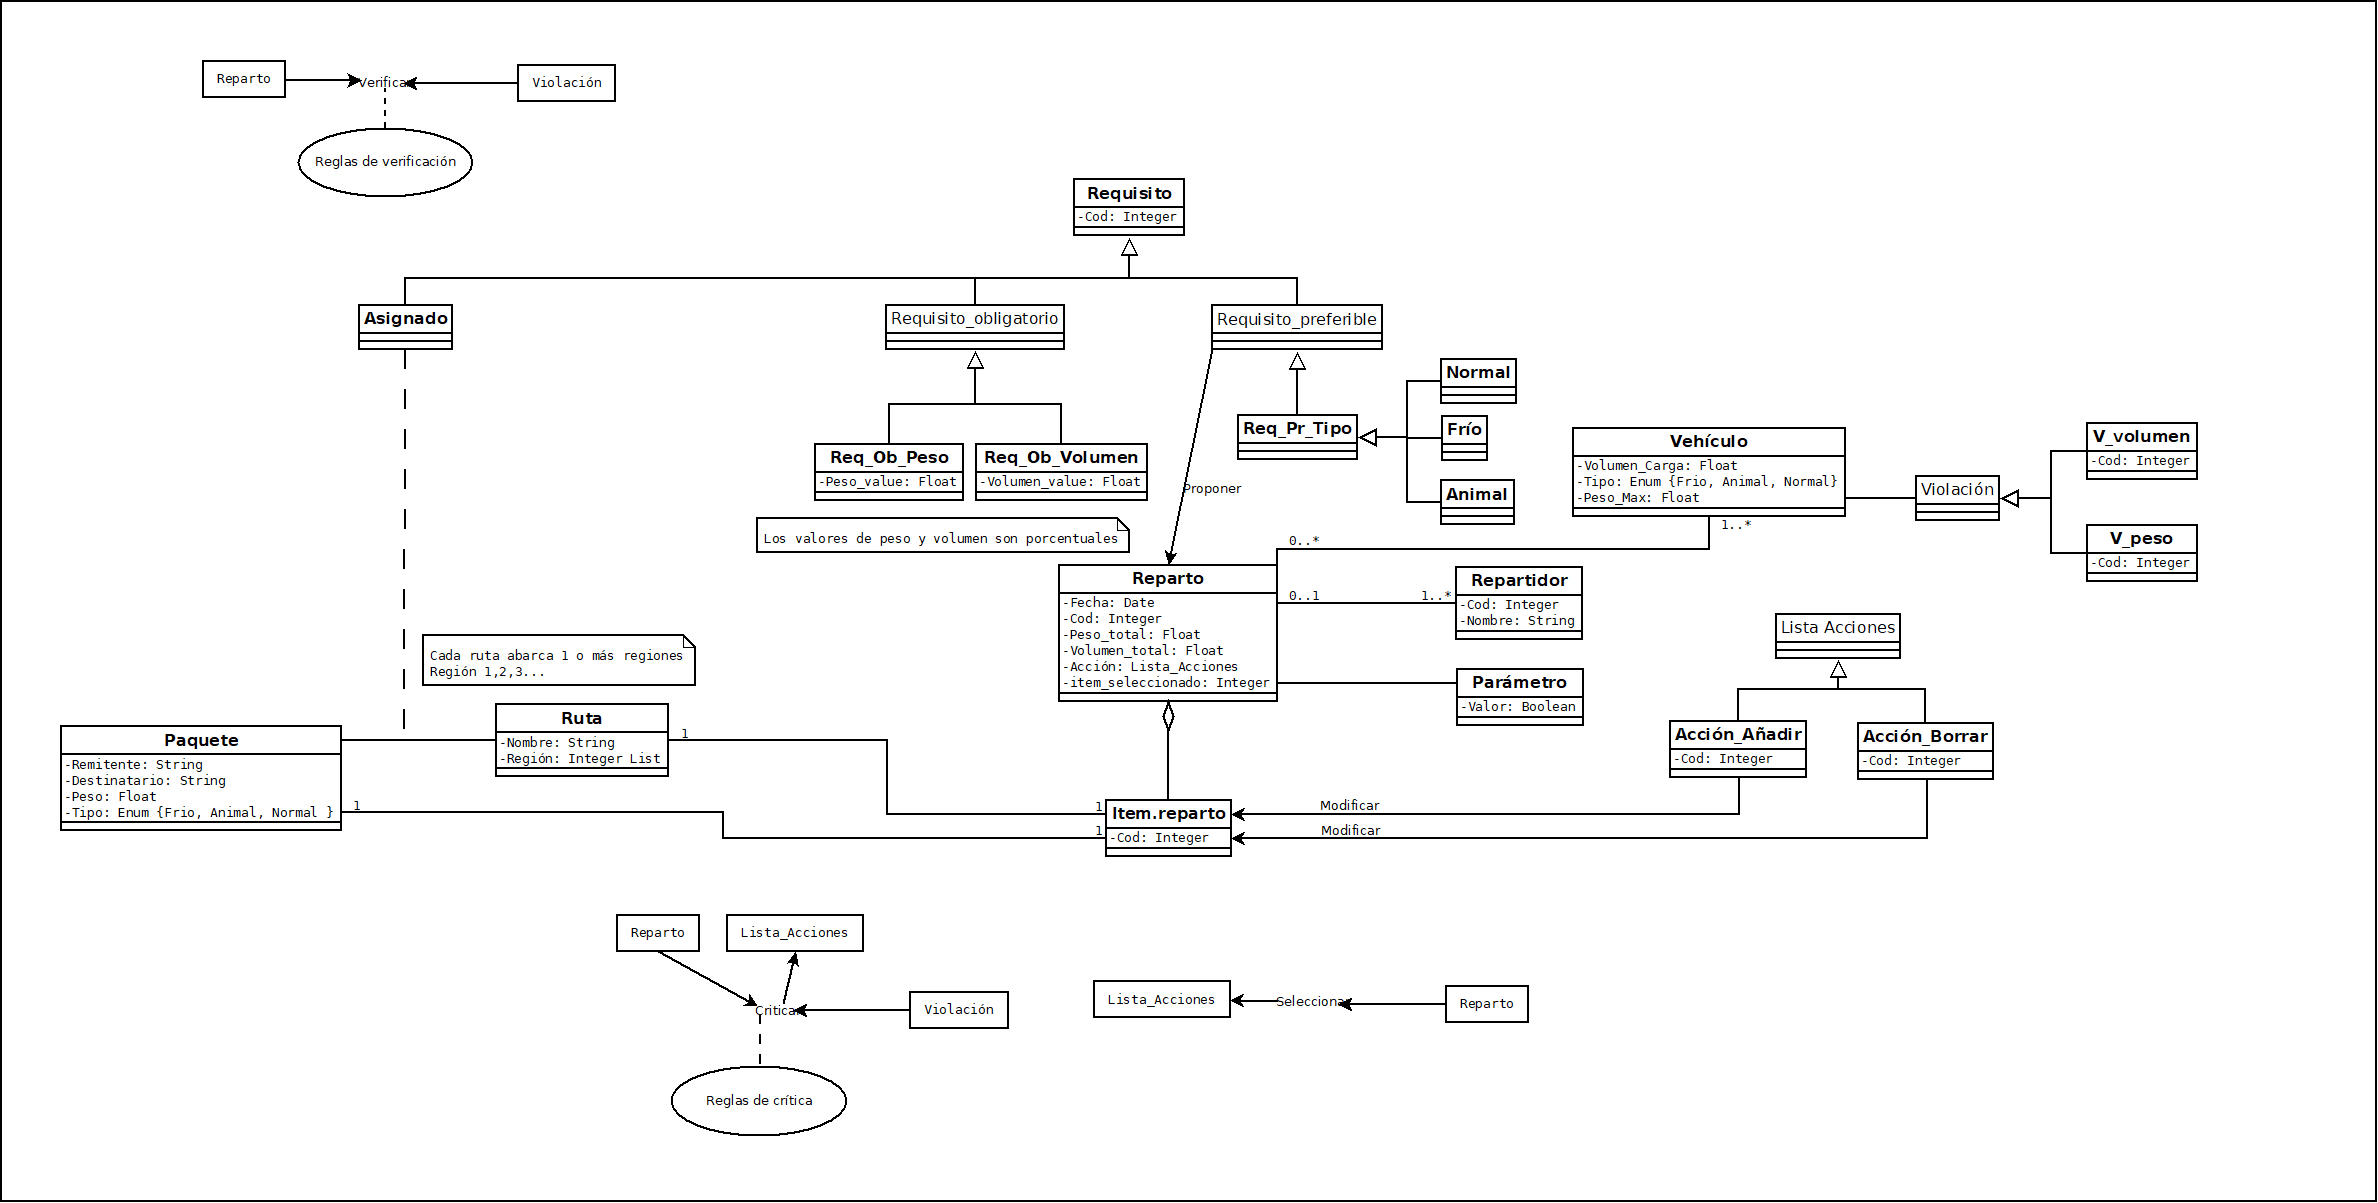
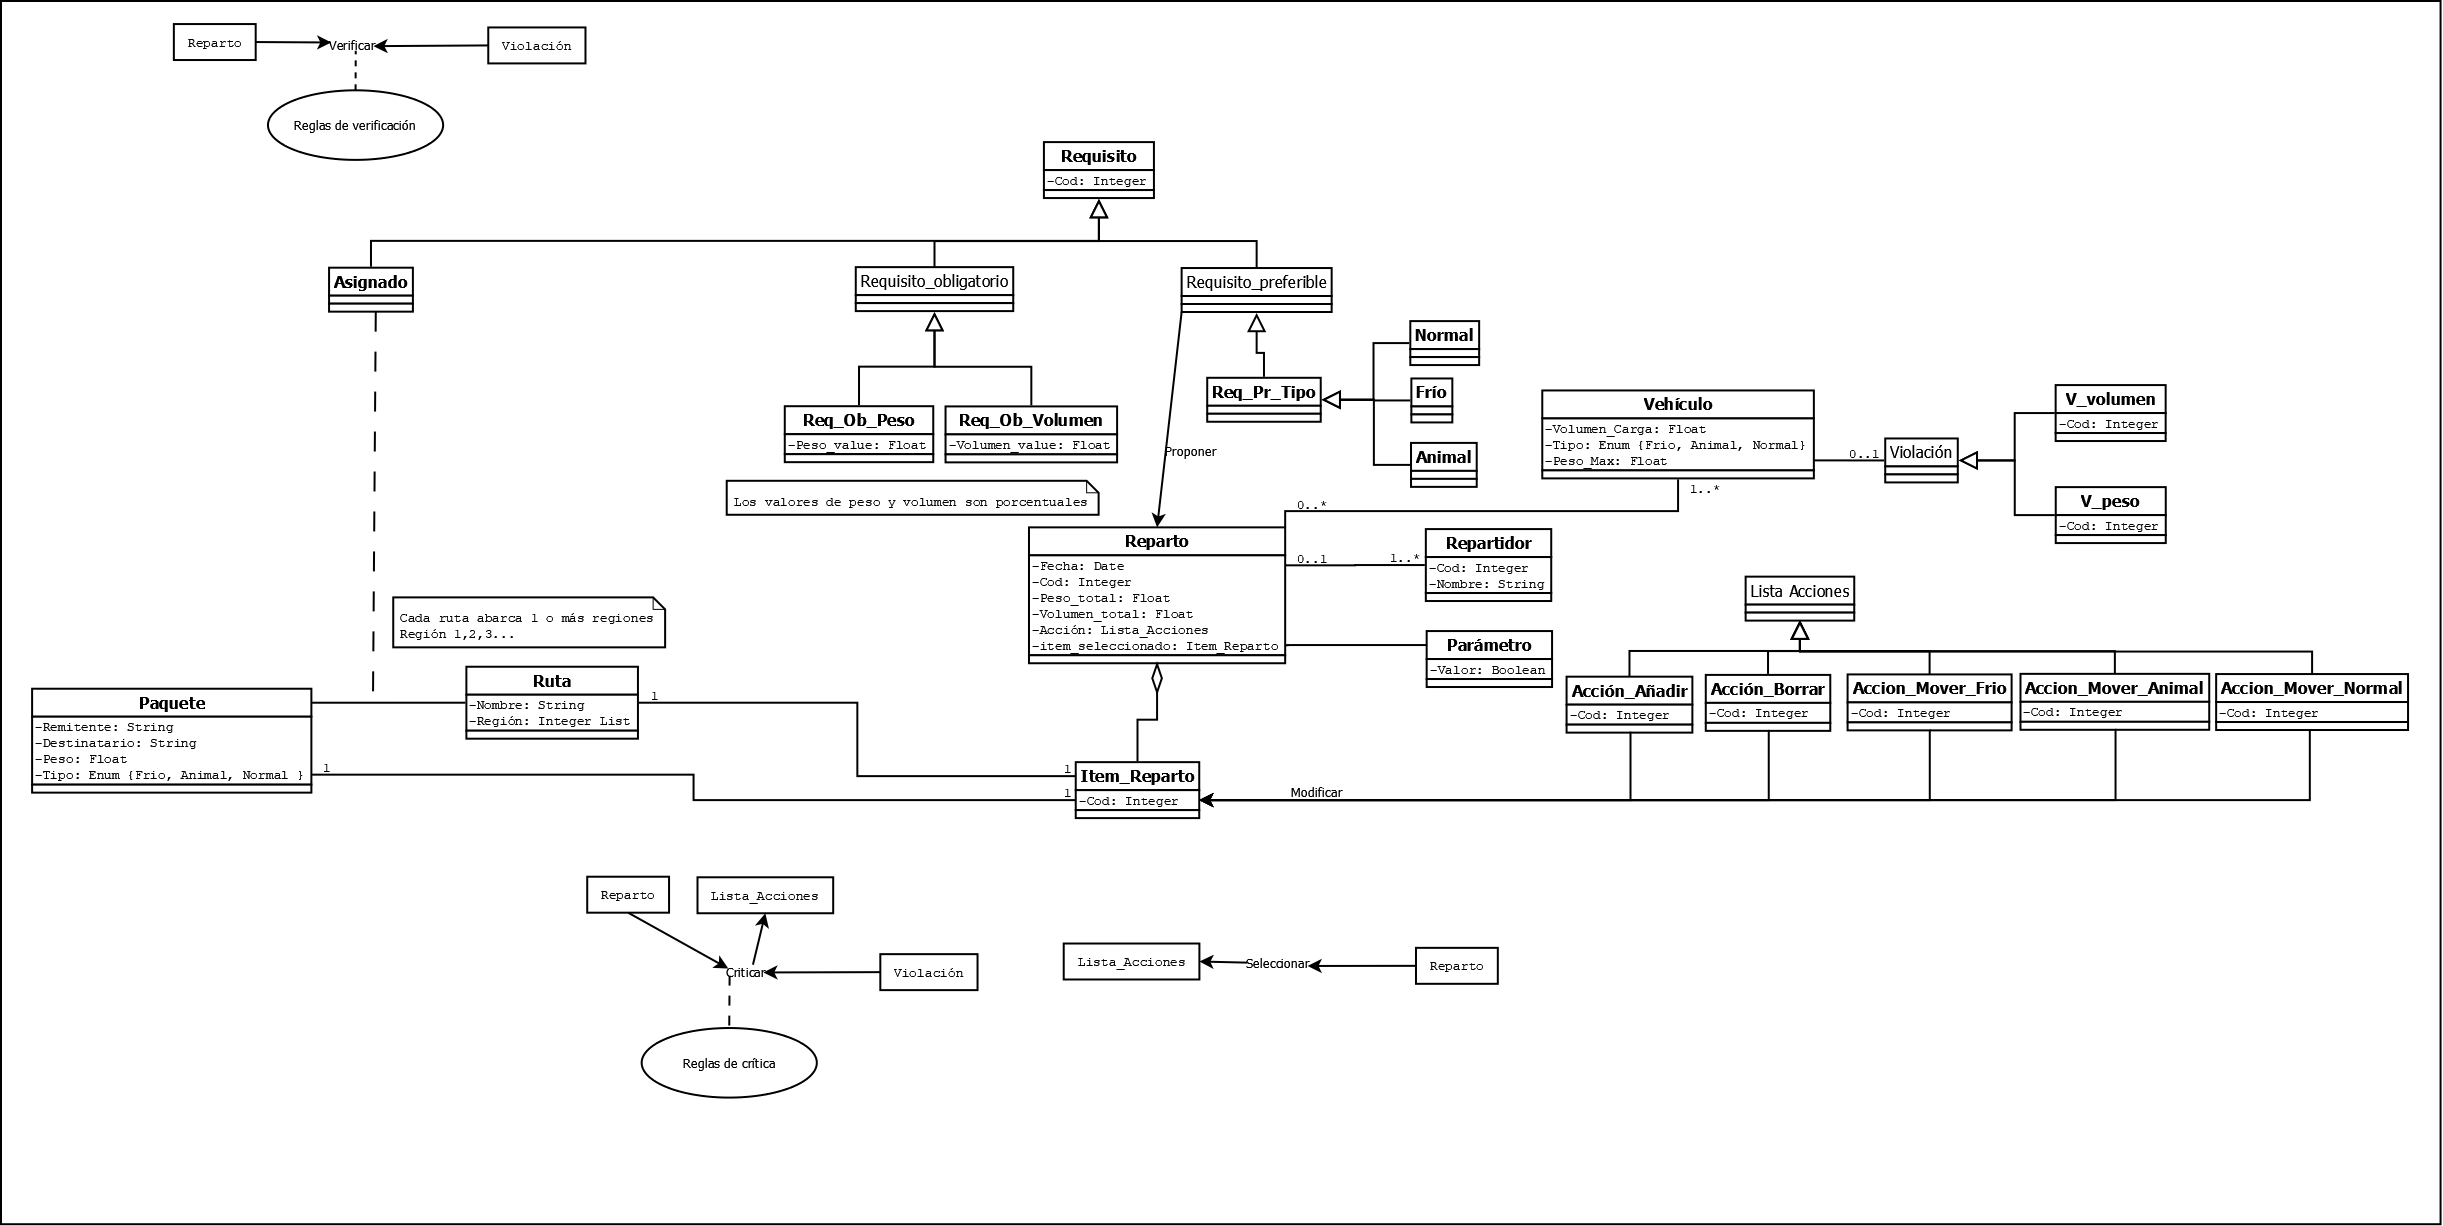
Modificacion.....

diff --git a/contido/Tema_3.tex b/contido/Tema_3.tex
@@ -11,7 +11,7 @@
 \newpage
 \section{Fase de identificación}
 \subsection{Tareas del formulario OM-3}
-Las tareas elegidas para este modelo conceptual han sido las tareas 2, 3 y 4 del OM-3 (Tabla \ref{tab:IdentificacionOM3}), que corresponden con \textbf{Generar lista de entregas según ruta asignada}, \textbf{Determinar los recursos disponibles por la sucursal MRW para entregar según ruta} y \textbf{Revisión y validación de la distribución de la paquetería}.
+La tarea elegida para este modelo conceptual ha sido la tarea 3 del OM-3 (Tabla \ref{tab:IdentificacionOM3}), que se corresponde con \textbf{Determinar los recursos disponibles por la sucursal MRW para entregar según ruta}.
 
 \begin{table}[H]
   \centering
@@ -388,9 +388,9 @@ La empresa actualmente cuenta con tres rutas, conocidas como \textbf{Ruta A, Rut
       \hline     
       \multicolumn{1}{|p{5.0cm}|}{\centering Se propone un reparto que cumple los requisitos con un peso total de 700 kg y un volumen total de 10.5 $m^3$}& \multicolumn{1}{|p{10.0cm}|}{\centering \textbf{PROPONER:} \\ Reparto.item\_seleccionado = SeleccionarPaquetes(Item\_paquetes) ;\\ Requisito\_preferible.Req\_pr\_tipo = Normal} & \multicolumn{1}{|p{4.0cm}|}{\centering Dados los datos, se propone un reparto. Se propone un paquete de forma aleatoria de la lista de reparto y un conjunto de tipos.}\\
       \hline
-      \multicolumn{1}{|p{5.0cm}|}{\centering Se recibe un reparto para que se compruebe si cumple los requisitos obligatorios.}& \multicolumn{1}{|p{10.0cm}|}{\centering \textbf{VERIFICAR:} \\ Reparto.Peso\_total >= Vehiculo.Peso\_Max * Requisito.Req\_Ob\_Peso.Peso\_value/100 $\rightarrow$  Reparto.Parametro.Valor = false;\\ devuelve V\_Peso;} & \multicolumn{1}{|p{4.0cm}|}{\centering Con la información aportada, concluímos que este reparto propuesto da una violación por peso, pues 700 kg >= 80\% del peso máximo del vehículo. Denegamos este reparto y devuelve la violación por peso.}\\
+      \multicolumn{1}{|p{5.0cm}|}{\centering Se recibe un reparto para que se compruebe si cumple los requisitos obligatorios.}& \multicolumn{1}{|p{10.0cm}|}{\centering \textbf{VERIFICAR:} \\ Reparto.Peso\_total >= Vehiculo.Peso\_Max * Requisito.Req\_Ob\_Peso.Peso\_value/100 $\rightarrow$  Reparto.Parametro.Valor = false;\\ Vehiculo.violacion = V\_Peso;} & \multicolumn{1}{|p{4.0cm}|}{\centering Con la información aportada, concluímos que este reparto propuesto da una violación por peso, pues 700 kg >= 80\% del peso máximo del vehículo. Denegamos este reparto y devuelve la violación por peso.}\\
       \hline  
-      \multicolumn{1}{|p{5.0cm}|}{\centering El reparto anterior tuvo una violación de peso en la fase de verificación}& \multicolumn{1}{|p{10.0cm}|}{\centering \textbf{CRITICAR:} (Reparto.vehiculo.violacion = V\_Peso) $\rightarrow$ Lista\_acciones AÑADE Accion\_Borrar;} & \multicolumn{1}{|p{4.0cm}|}{\centering Debido al tipo de violación, se devuelve una lista de acciones posibles que cumplen preferentemente los requisitos preferibles y que permiten dejar de cometer la violación. En este caso, las acciones están enfocadas a eliminar elementos que disparan la violación.}\\
+      \multicolumn{1}{|p{5.0cm}|}{\centering El reparto anterior tuvo una violación de peso en la fase de verificación}& \multicolumn{1}{|p{10.0cm}|}{\centering \textbf{CRITICAR:} \\ Reparto.vehiculo.violacion = V\_Peso; \\ Reparto.Accion = Lista\_acciones;} & \multicolumn{1}{|p{4.0cm}|}{\centering Debido al tipo de violación, se devuelve una lista de acciones posibles que cumplen preferentemente los requisitos preferibles y que permiten dejar de cometer la violación. En este caso, las acciones están enfocadas a eliminar elementos que disparan la violación.}\\
       \hline  
       \multicolumn{1}{|p{5.0cm}|}{\centering Se selecciona de la lista de acciones una acción para ejecutar sobre el reparto.}& \multicolumn{1}{|p{10.0cm}|}{\centering \textbf{SELECCIONAR:} \\ Reparto.Acción = Acción\_Borrar; \\  } & \multicolumn{1}{|p{4.0cm}|}{\centering De la lista, se selecciona una acción de borrado.}\\
       \hline  
@@ -418,7 +418,7 @@ La empresa actualmente cuenta con tres rutas, conocidas como \textbf{Ruta A, Rut
       \hline     
       \multicolumn{1}{|p{5.0cm}|}{\centering Se propone un reparto que cumple los requisitos con un peso total de 500 kg y un volumen total de 7.5 $m^3$}& \multicolumn{1}{|p{10.0cm}|}{\centering \textbf{PROPONER:} \\ Reparto.item\_seleccionado = SeleccionarPaquetes(Item\_paquetes) ;\\ Requisito\_preferible.Req\_pr\_tipo = Normal} & \multicolumn{1}{|p{4.0cm}|}{\centering Dados los datos, es propuesto un reparto. Se propone un paquete de forma aleatoria de la lista de reparto y un conjunto de tipos.}\\
       \hline
-      \multicolumn{1}{|p{5.0cm}|}{\centering Se recibe un reparto para que se compruebe si cumple los requisitos obligatorios.}& \multicolumn{1}{|p{10.0cm}|}{\centering \textbf{VERIFICAR:} \\ Reparto.Peso\_total <= Vehiculo.Peso\_Max * Requisito.Req\_Ob\_Peso.Peso\_value/100 $\rightarrow$  Reparto.Parametro.Valor = true;\\ devuelve V\_Peso;} & \multicolumn{1}{|p{4.0cm}|}{\centering Con la información aportada, concluímos que este reparto propuesto es correcto. Aprobamos este reparto.}\\
+      \multicolumn{1}{|p{5.0cm}|}{\centering Se recibe un reparto para que se compruebe si cumple los requisitos obligatorios.}& \multicolumn{1}{|p{10.0cm}|}{\centering \textbf{VERIFICAR:} \\ Reparto.Peso\_total <= Vehiculo.Peso\_Max * Requisito.Req\_Ob\_Peso.Peso\_value/100 $\rightarrow$  Reparto.Parametro.Valor = true;} & \multicolumn{1}{|p{4.0cm}|}{\centering Con la información aportada, concluímos que este reparto propuesto es correcto. Aprobamos este reparto.}\\
       \hline  
     \end{tabular}
   }
@@ -446,10 +446,10 @@ La empresa actualmente cuenta con tres rutas, conocidas como \textbf{Ruta A, Rut
     /* manisfestacion_reglas */
       SI (Reparto.Peso_total >= Vehiculo.Peso_Max * Requisito.Req_Ob_Peso.Peso_value/100) TIENE-MANIFESTACION
         Reparto.Parametro.Valor = false;
-        devuelve V_Peso;
+        Vehiculo.Violacion = V_Peso;
       SI (Reparto.volumen_total >= Vehiculo.Volumen_Carga * Requisito.Req_Ob_Volumen.Volumen_value/100) TIENE-MANIFESTACION
           Reparto.Parametro.Valor = false;
-        devuelve V_Volumen;
+        Vehiculo.Violacion = V_Volumen;
       SI NO 
         Reparto.Parametro.Valor = true;
    
@@ -467,28 +467,30 @@ La empresa actualmente cuenta con tres rutas, conocidas como \textbf{Ruta A, Rut
 
     /* dependencia_estado */
     SI Reparto.vehiculo.violacion != null
-      Lista_acciones AÑADE Accion_Borrar;
-      devuelve Lista_acciones
+      Reparto.Accion = Accion_Borrar
 
-    SI Reparto.item.reparto.paquete.tipo != normal
-      Lista_acciones PROPONER_MOVER Reparto.item_reparto.paquete DONDE (paquete.tipo == vehiculo.tipo);
-      devuelve Lista_acciones
+    SI Reparto.item_seleccionado.tipo == normal
+      Reparto.Accion = Accion_Mover_Normal;
+      
+    SI Reparto.item_seleccionado.tipo == frio
+      Reparto.Accion = Accion_Mover_Frio;
+
+    SI Reparto.item_seleccionado.tipo == animal
+      Reparto.Accion = Accion_Mover_Animal;
 
     /* manisfestacion_reglas */
 
     SI Reparto.vehiculo.violacion != null TIENE-MANIFESTACION
-      Reparto.Lista_acciones AÑADE Reparto.Item_reparto.Accion_Borrar;
+      Reparto.Accion = Reparto.Item_reparto.Accion_Borrar;
 
-    SI Reparto.item.reparto.paquete.tipo == Frio TIENE-MANIFESTACION
-      Reparto.Lista_acciones PROPONE_VEHICULO (Reparto.Item_reparto.Accion_Añadir, frio)
+    SI Reparto.item_seleccionado.tipo == Frio TIENE-MANIFESTACION
+      Reparto.Accion = Accion_Mover_Frio;
 
-    SI Reparto.item.reparto.paquete.tipo == Animal TIENE-MANIFESTACION
-      Reparto.Lista_acciones PROPONE_VEHICULO (Reparto.Item_reparto.Accion_Añadir, animal)
+    SI Reparto.item_seleccionado.tipo == Animal TIENE-MANIFESTACION
+      Reparto.Accion = Accion_Mover_Animal;
 
-    SI Reparto.item.reparto.paquete.tipo == Normal TIENE-MANIFESTACION
-      Reparto.Lista_acciones PROPONE_VEHICULO (Reparto.Item_reparto.Accion_Añadir, normal)
-
-    devuelve Lista_acciones
+    SI Reparto.item_seleccionado.tipo == Normal TIENE-MANIFESTACION
+      Reparto.Accion = Accion_Mover_Normal;
       
   END KNOWLEDGE-BASE regla_de_critica;
 \end{lstlisting}
